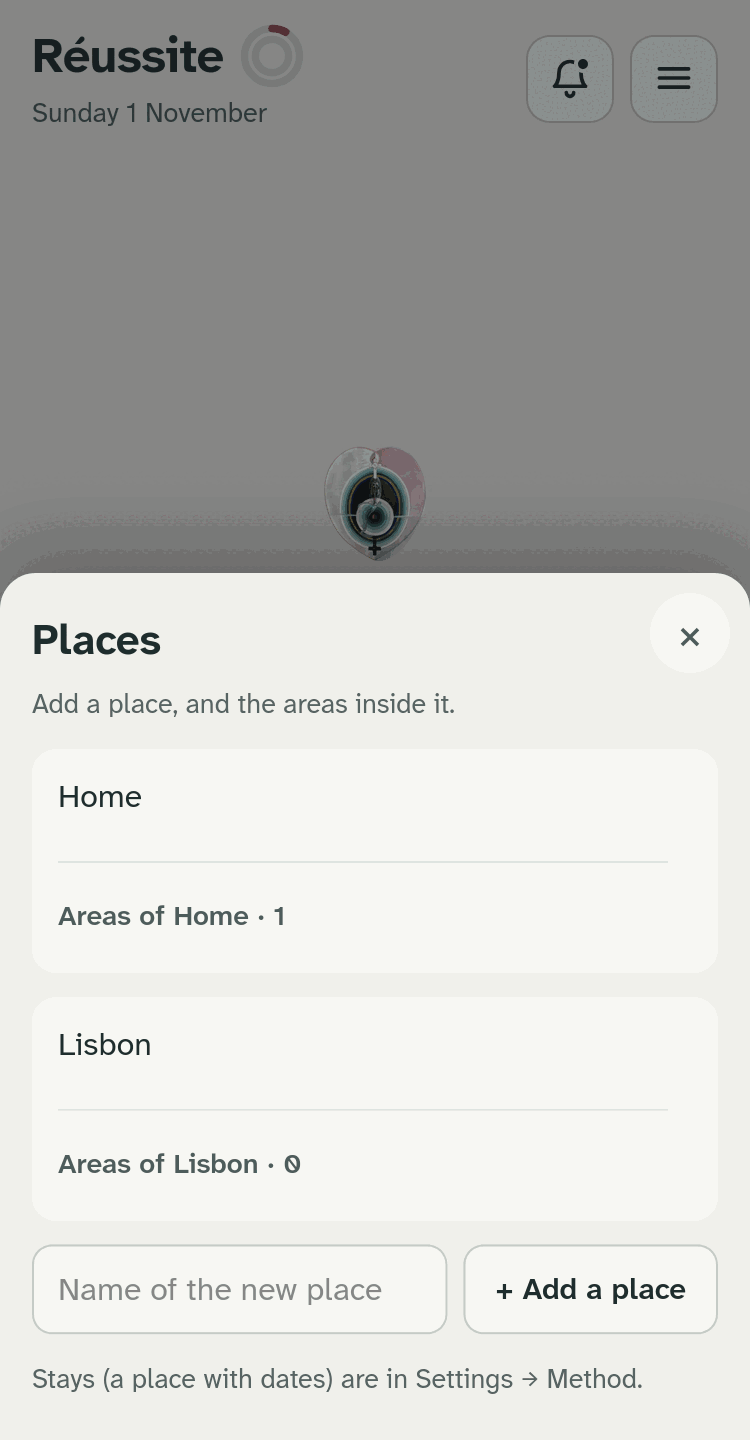
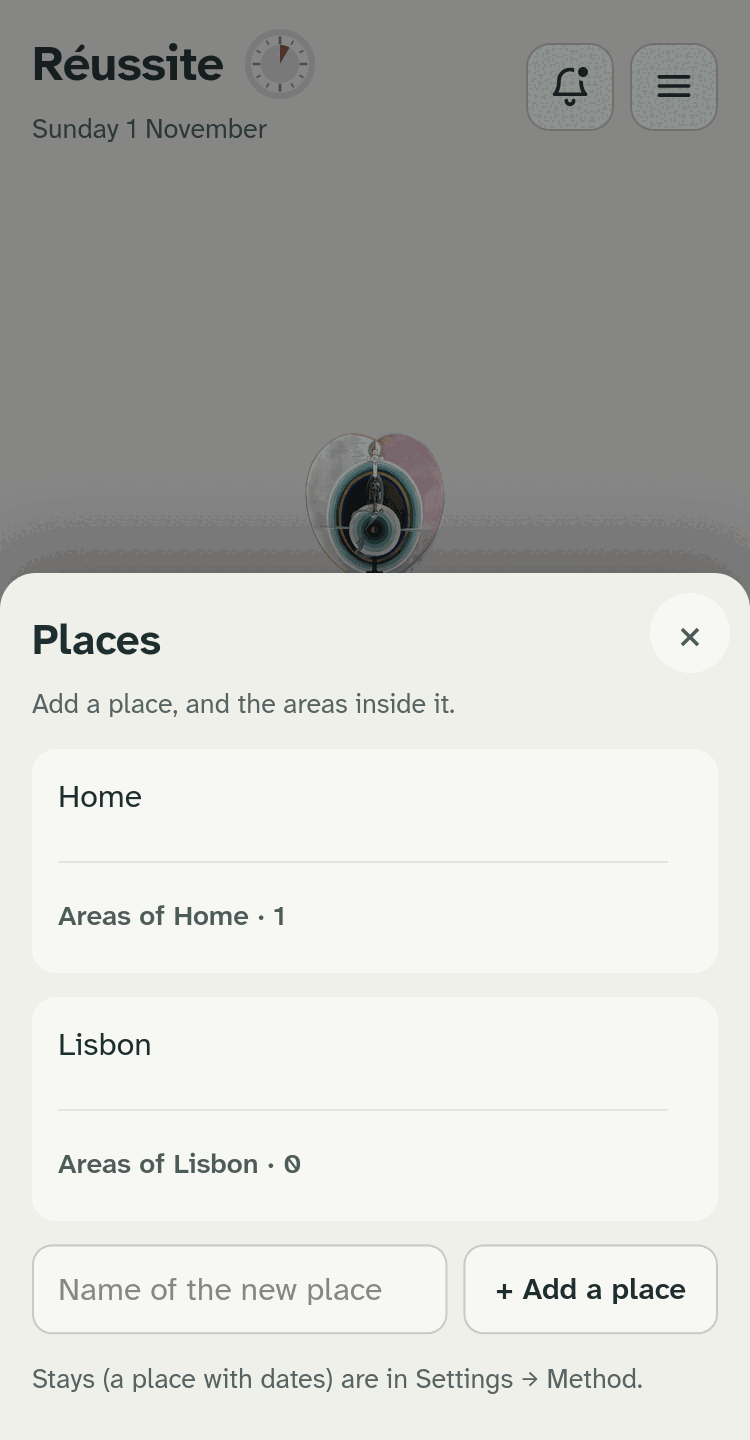
Areas spec runs at 09:00; retake the manual's screenshots with the new mark and clock
Claude-Session: https://claude.ai/code/session_01PoqEP42m8ZAqBBYY1MyYki

diff --git a/tests/e2e/areas.spec.ts b/tests/e2e/areas.spec.ts
@@ -1,5 +1,5 @@
 import { test, expect, type Page } from '@playwright/test';
-import { noSideways, openMenu, goTab, calEvent, expandSettings, expandSheet, addCard, newCardSheet } from './helpers';
+import { noSideways, openMenu, goTab, calEvent, expandSettings, expandSheet, addCard, newCardSheet, morningDate } from './helpers';
 
 // Areas inside places, half days and people's pages (phase 4b). Every name here is invented.
 const sheet = (page: Page) => page.getByTestId('sheet');
@@ -51,6 +51,7 @@ async function viewOnly(page: Page, name: string) {
 }
 
 test('an area is made under a place, offered in the place field, and View in the place menu narrows Today, the Matrix and the Calendar to it', async ({ page }) => {
+  await morningDate(page); // its fixed items are at 22:00 and 22:30: in the evening they would have passed
   await cairoWithHeliopolis(page);
   await addStep(page, 'Renew the visa', 'Cairo');
   await addStep(page, 'Buy a SIM card', 'Cairo › Heliopolis');
